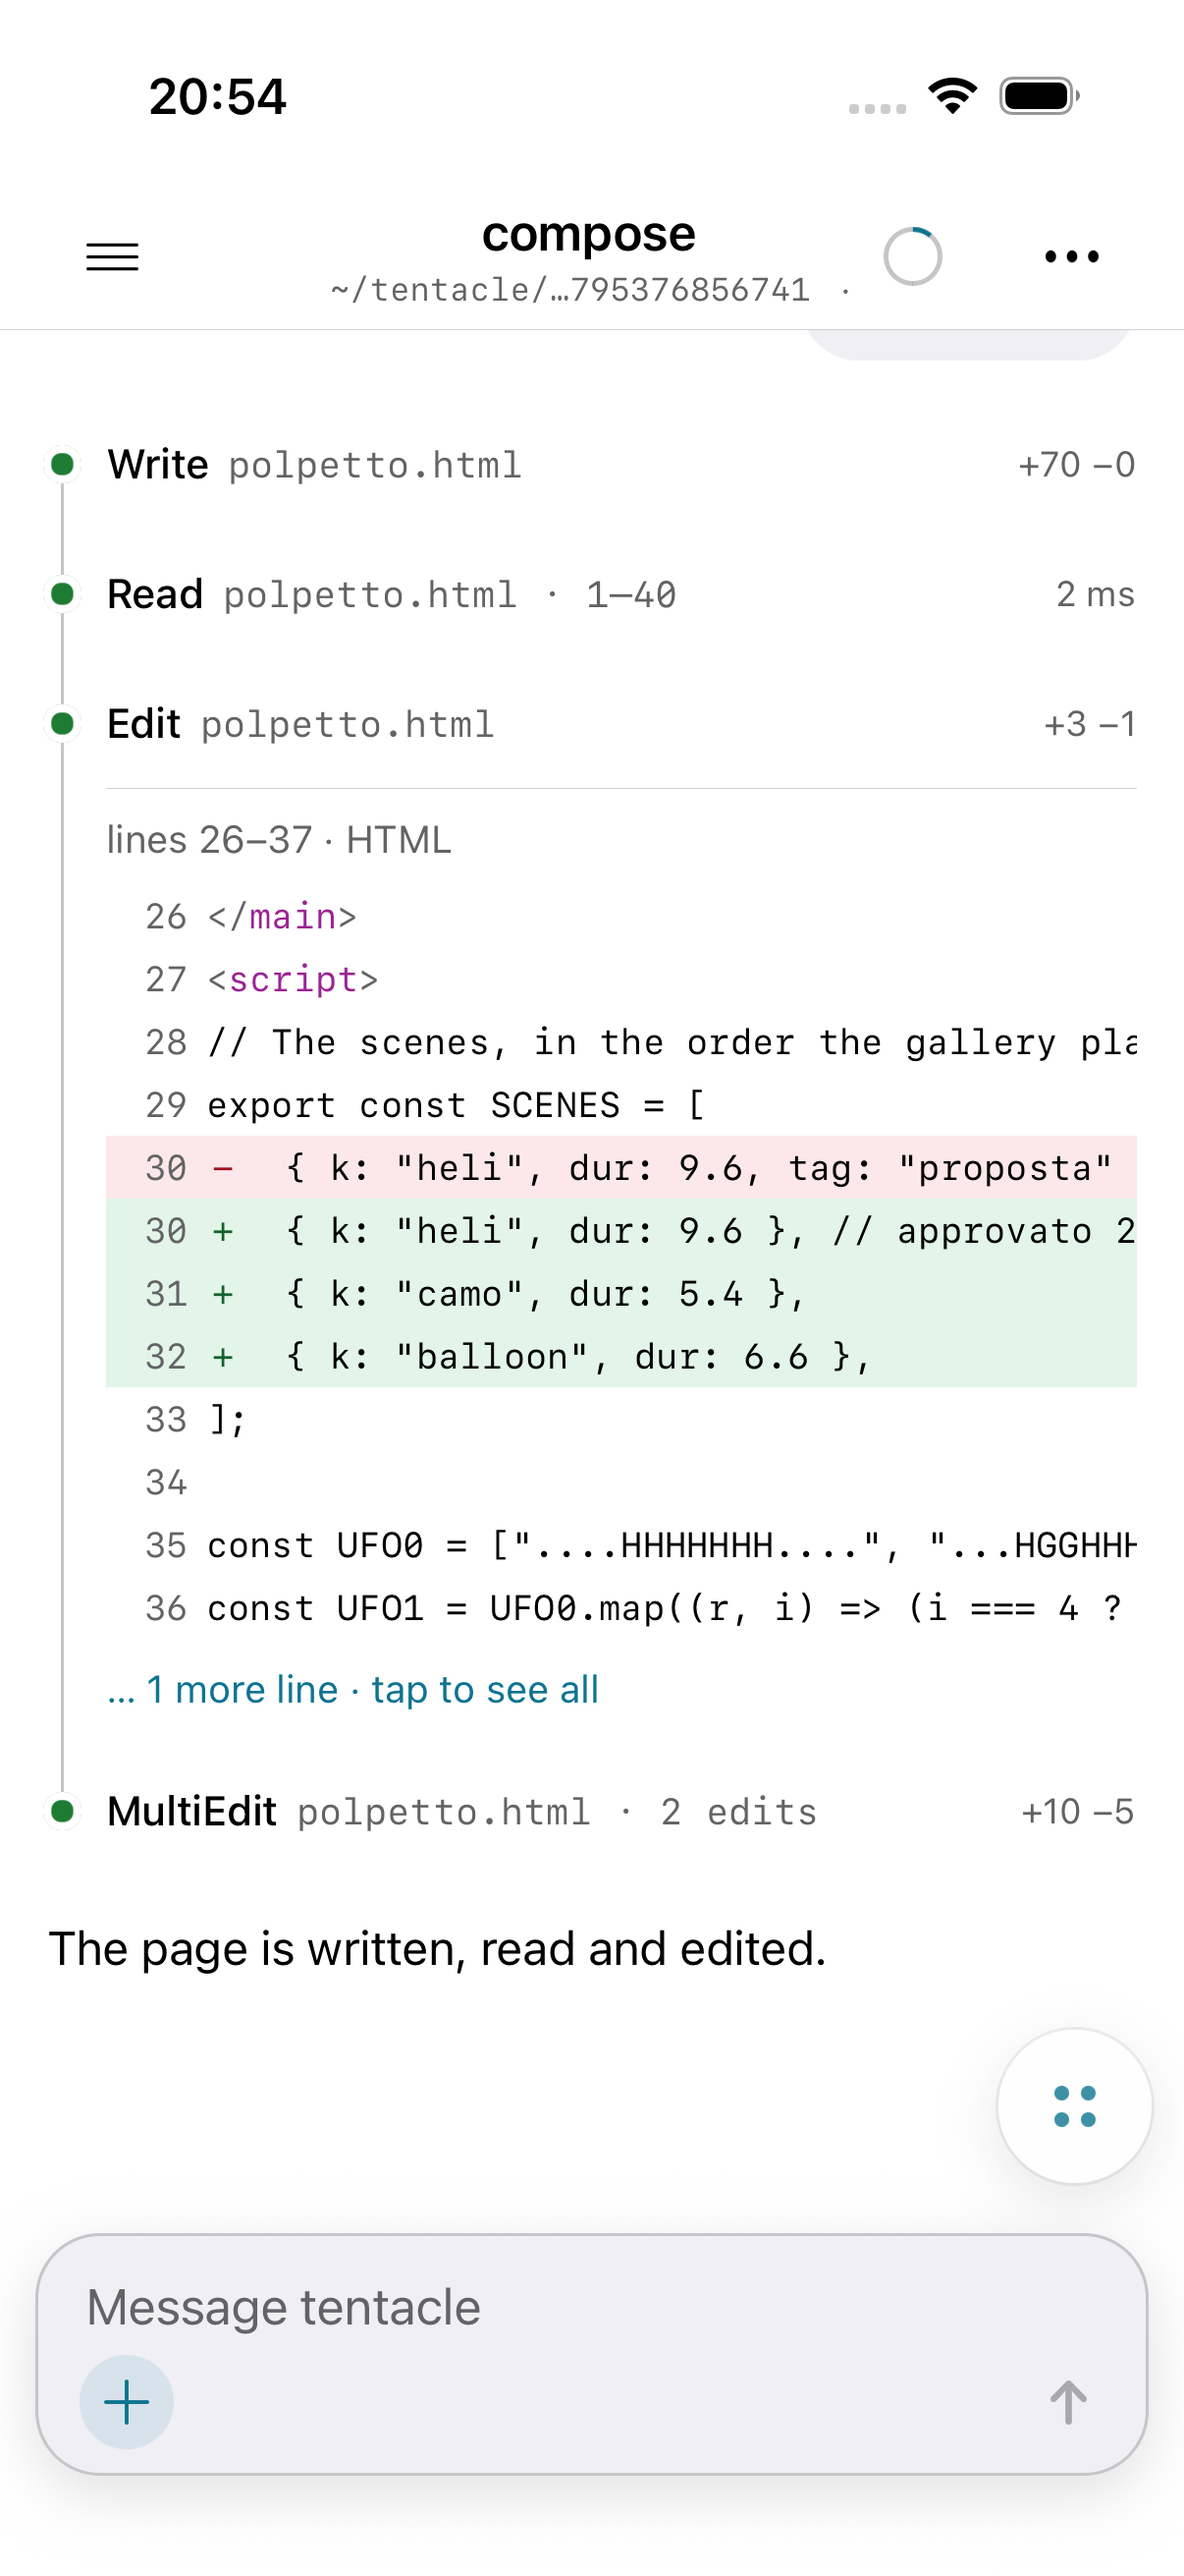
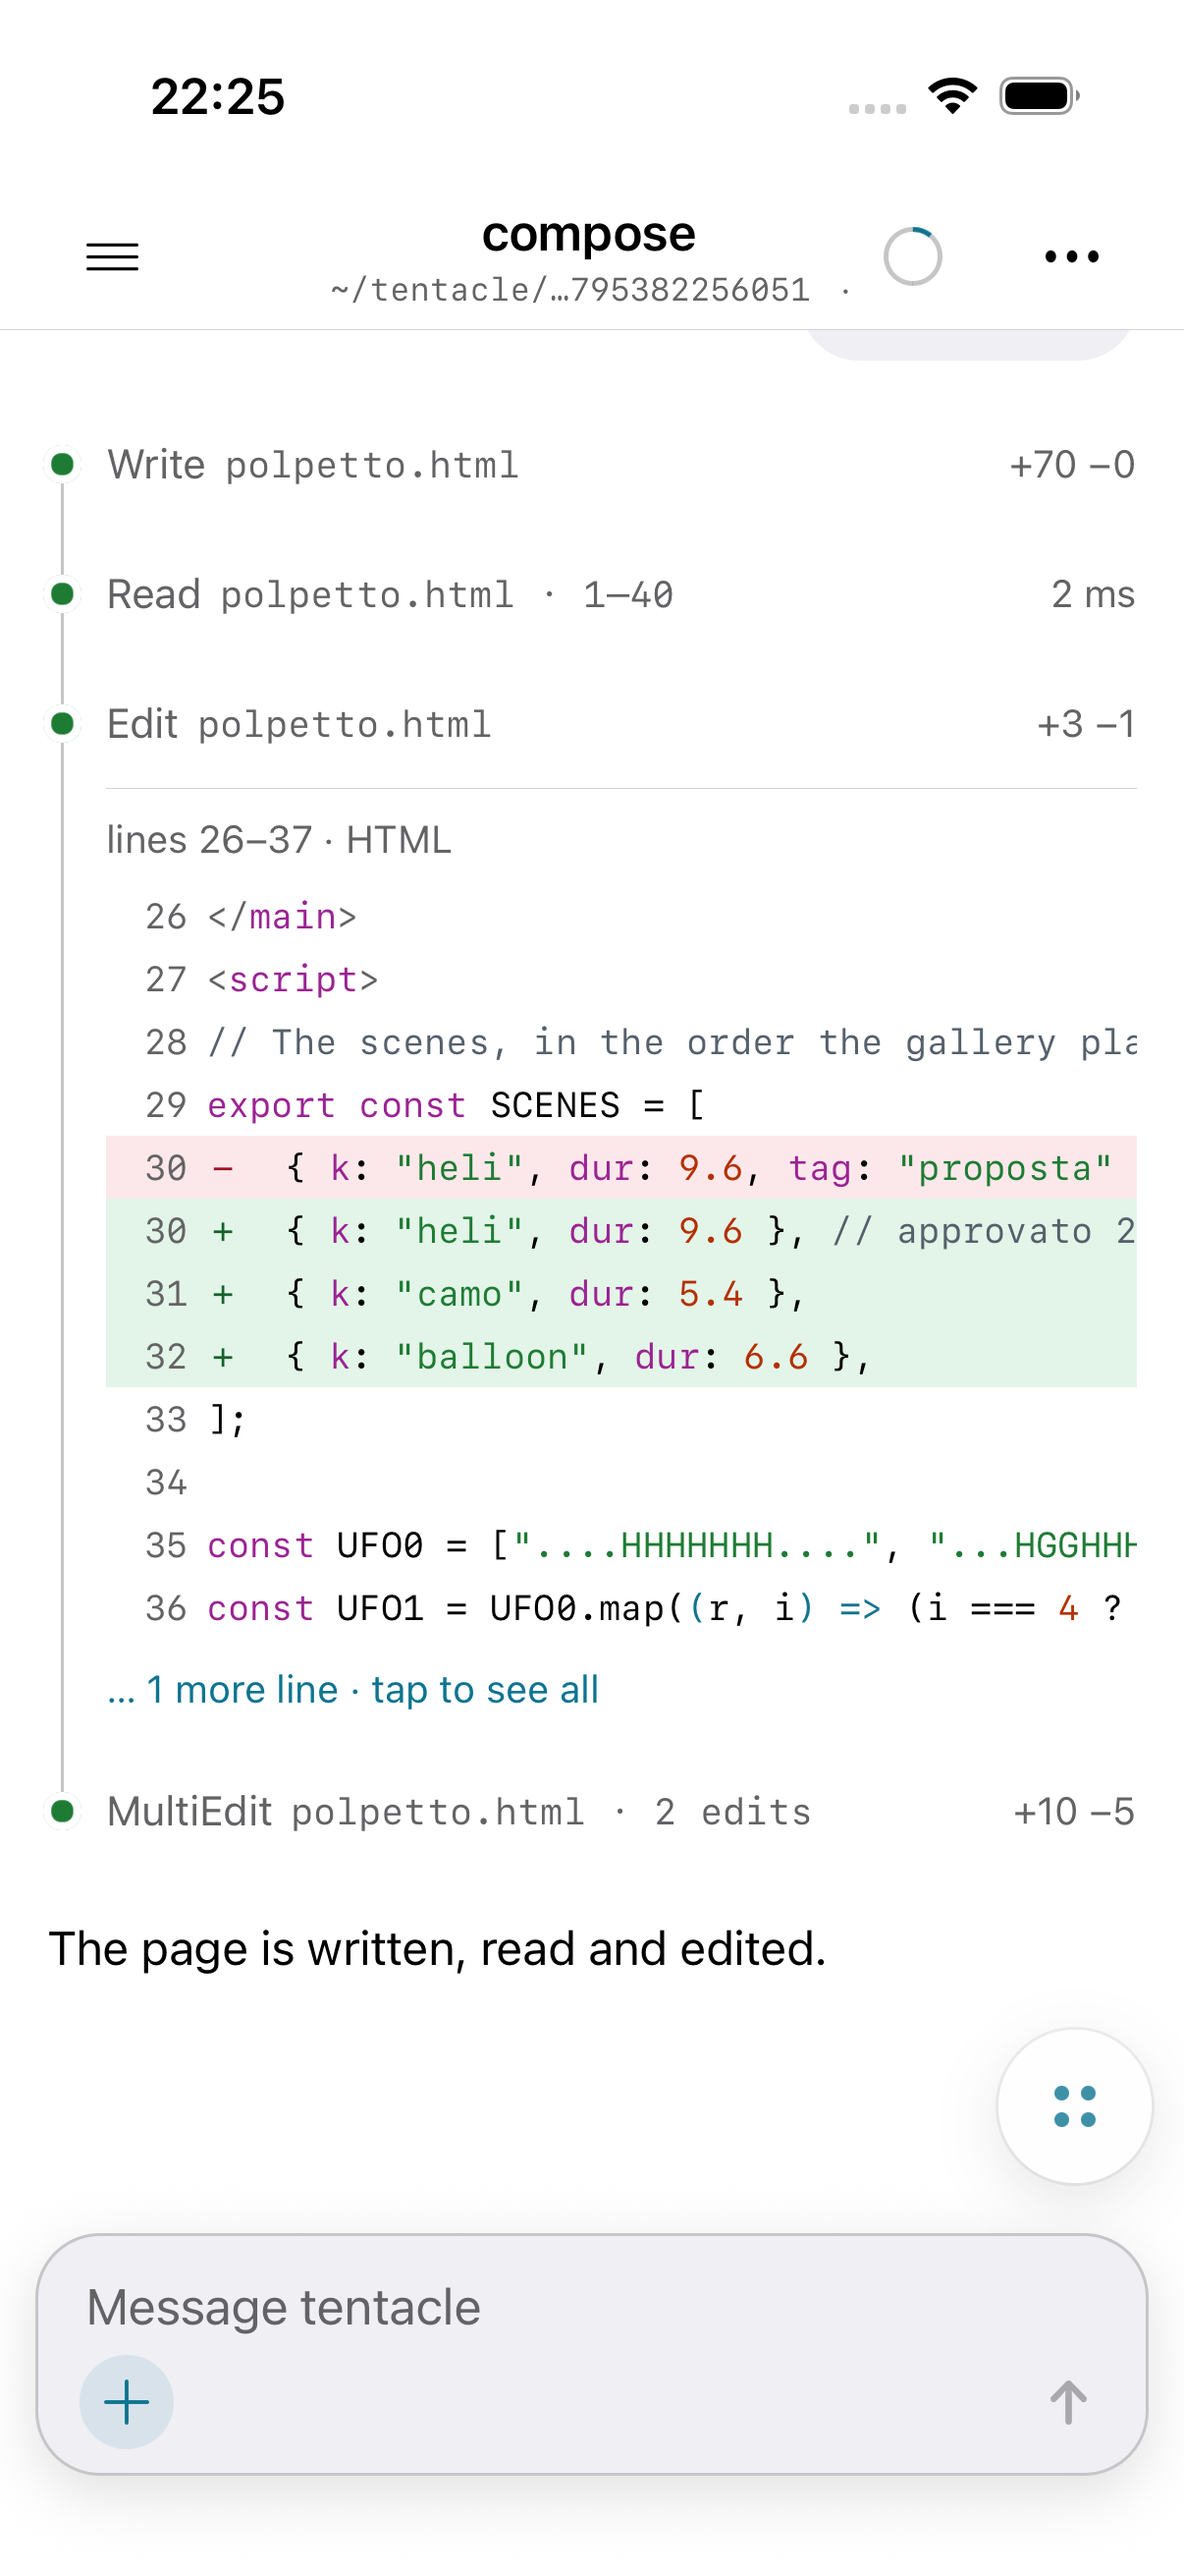
test(mobile-file-view): part 1 validation screenshots v2 after the html-diff fix (opus)

diff --git a/docs/feat/mobile-file-view.md b/docs/feat/mobile-file-view.md
@@ -410,6 +410,39 @@ taken light then dark (`_shot.yaml`). Run: `scripts/e2e-gate.sh 0FA4B51F-A0E3-42
 - Minor: the body's header says `HTML`, the mockup's MultiEdit said `JavaScript in HTML` — the
   spec (#4) only asks for `LANG`, so this is consistent with it.
 
+### Validation (part 1)
+
+*— claude-opus-5-5, 2026-11-22 — RETAKE after Fix round 1 (html diffs), simulator `0FA4B51F-…`, iOS 26, Release build*
+
+**How:** the same flow `41-file-view-shots.yaml` and fixture, unchanged (they already shoot
+Read / Edit / MultiEdit / Write, collapsed + tapped open, light + dark via `_shot.yaml`).
+`scripts/e2e-gate.sh 0FA4B51F-A0E3-421B-BE66-CE29EF45213D --only 41-file-view-shots` →
+`GATE PASS — 1 passed, 0 failed (97 s)`. The 14 PNGs in `docs/feat/mobile-file-view/` were
+overwritten with this run's (same names): `41-collapsed`, `41-write-open`, `41-read-open`,
+`41-read-full`, `41-edit-open`, `41-multiedit-open`, `41-multiedit-full`, each `-light`/`-dark`.
+
+**What I saw (vs the mockup, variant B):**
+- **Round 3's HIGH is fixed on device.** `41-edit-open`: the `// The scenes…` comment, `export const SCENES`,
+  the keys/strings/numbers of the `+`/`−` rows and `const UFO0/UFO1 … =>` are coloured as JS,
+  both themes, same colours as the Read. `41-write-open`: the `<style>` lines are coloured CSS
+  (comment, `--bg`/`--fg` custom properties, hex values). Diff bodies now match the mockup's look.
+- Holds (as in the first pass): header said once on the step line; one light body line
+  (`HTML · new file`, `lines 1–40 of 71 · HTML`, `lines 26–37 · HTML`, `lines 34–78 · HTML`);
+  one number column; `+`/`−` sign column + add/del tints in both themes; preview 12 lines +
+  `… N more lines · tap to see all`; tap → full view. Read fully coloured (`41-read-full`).
+- **Differs from the mockup's MultiEdit (known, documented limit):** the MultiEdit's FIRST hunk
+  (`41-multiedit-open`, lines 34–50: `const UFO0`, `const BANNER`/`NOTIF_A`, `function draw`) is
+  plain, while variant B shows those very JS lines coloured. It is Fix round 1's documented
+  limit (that hunk has no `<script>`/`</script>` tag, the patch carries no context). The
+  second hunk (68–78, with `</script>`) is coloured (`41-multiedit-full`). So the MultiEdit shot
+  — the one the owner compares with variant B — looks half-done in its preview; the owner
+  should know this before approving.
+- Minor (still open from the first pass): no separator between hunks in `41-multiedit-full`
+  (`50 → 68`, then a removed `68` right after context `71`).
+- Minor, spec #4: the Read step line shows a duration (`2 ms`); #4 says no duration for
+  Read/Edit/Write (Edit/Write indeed show none).
+- Not code: the session title/first bubble `compose` is the harness's shared session, not this feature.
+
 ## Review
 
 *— claude-opus-5-5, 2026-11-22 (fresh context; same model as the Execution resume, different from the DeepSeek executor)*
